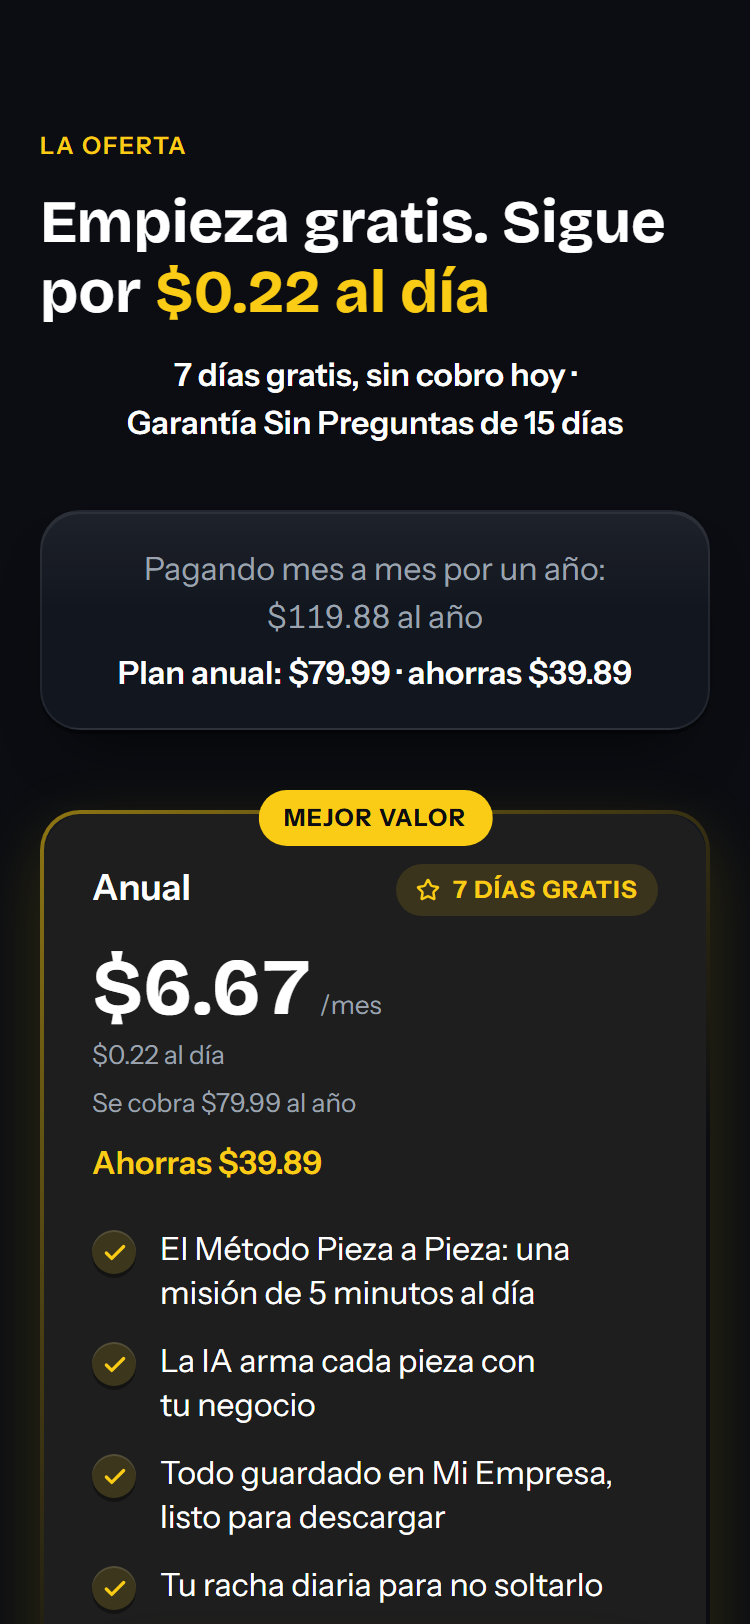
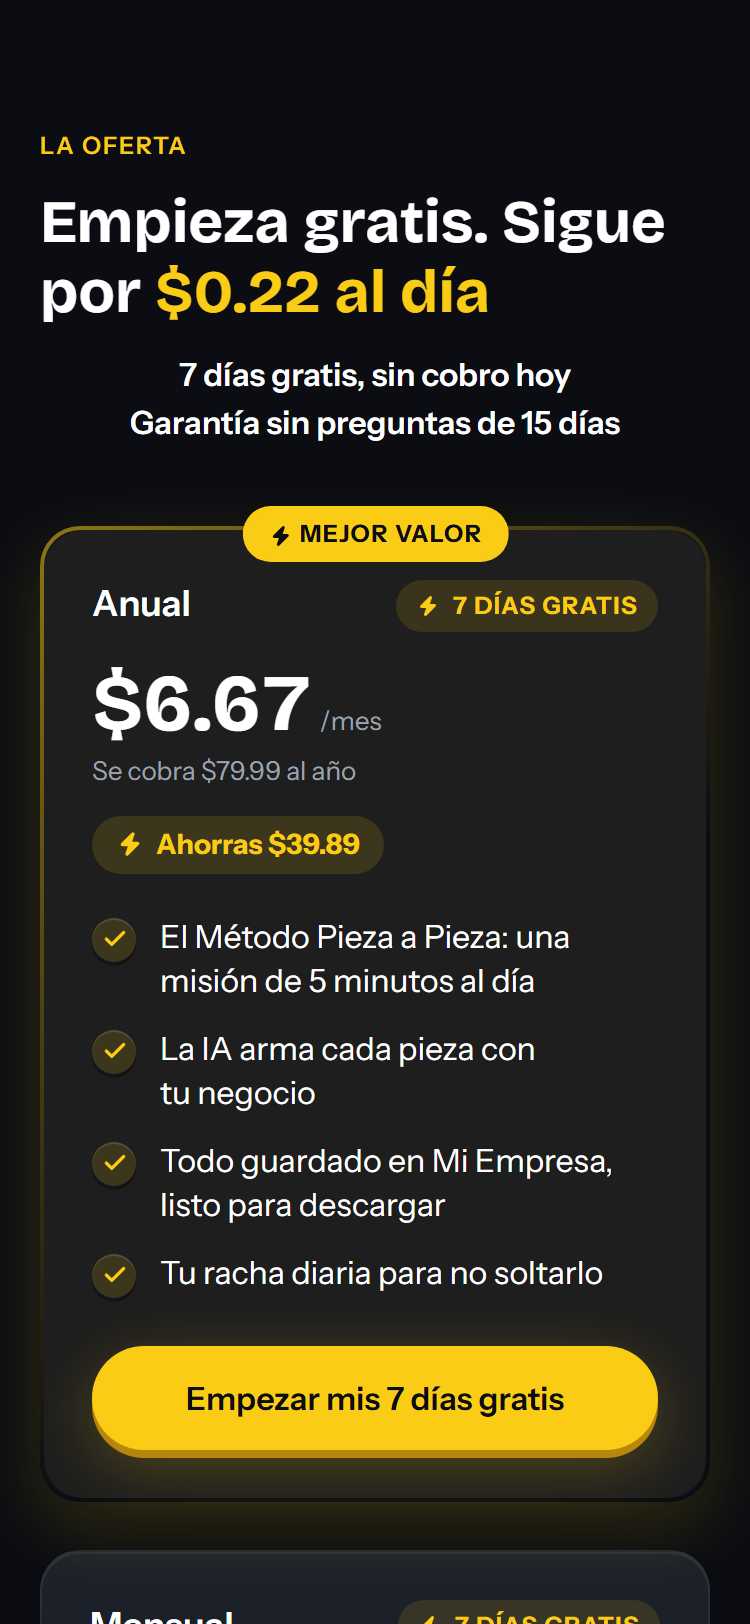
wip: ronda final portada (34/40 · 16/20 · 16/20) y Entrar (30/40 · 15/20)

diff --git a/components/acceso/Acceso.tsx b/components/acceso/Acceso.tsx
@@ -528,7 +528,7 @@ export function Acceso() {
                 <p className="text-xs font-semibold tracking-[0.16em] text-ink-2 uppercase">Tu primer paso</p>
                 <h1 className="mt-3 font-display text-pregunta font-extrabold text-ink-1">Tu idea te espera.</h1>
                 <p className="mt-2 text-base font-semibold text-ink-1">Entra con un enlace a tu correo.</p>
-                <div className="relative mx-auto mt-2 aspect-square w-full max-w-36">
+                <div className="relative mx-auto -mt-2 -mb-6 aspect-square w-full max-w-36">
                   <Image
                     src="/images/jaguar-login.webp"
                     alt=""
@@ -576,7 +576,7 @@ export function Acceso() {
                   </div>
                 </motion.div>
               )}
-              <motion.form {...entrar(2)} onSubmit={enviar} noValidate className="mt-8 flex flex-col gap-2">
+              <motion.form {...entrar(2)} onSubmit={enviar} noValidate className="mt-6 flex flex-col gap-2 rounded-[var(--radius-card)] border border-[var(--portada-borde)] bg-[var(--surface)] p-4 shadow-[var(--shadow-2)]">
                 <label htmlFor={idCampo} className="text-caption font-semibold text-ink-1">
                   Tu correo
                 </label>
@@ -607,7 +607,7 @@ export function Acceso() {
                   aria-invalid={Boolean(errorCampo)}
                   aria-describedby={errorCampo ? `${idCampo}-error` : undefined}
                   key={intentos}
-                  className={`h-14 w-full rounded-[var(--radius-pill)] border bg-[var(--surface)] shadow-[inset_0_1px_0_rgb(255_255_255/0.06)] pr-5 pl-12 text-base text-ink-1 placeholder:text-ink-3 focus:outline-none ${
+                  className={`h-14 w-full rounded-[var(--radius-pill)] border bg-[var(--bg)] pr-5 pl-12 text-base text-ink-1 placeholder:text-ink-3 focus:outline-none ${
                     errorCampo ? 'sacudir border-danger' : 'border-[var(--portada-borde)] focus:border-[var(--portada-verde)]'
                   }`}
                 />
@@ -685,7 +685,7 @@ export function Acceso() {
                     ni se comparte.
                   </span>
                 </p>
-                <p className="mt-2 text-xs text-ink-3">
+                <p className="mt-2 text-caption text-ink-3">
                   Al entrar aceptas los{' '}
                   <Link href="/terminos" className="underline underline-offset-4 hover:text-ink-2">
                     Términos

diff --git a/components/landing/Oferta.tsx b/components/landing/Oferta.tsx
@@ -10,7 +10,7 @@
 
 import { FraseOferta } from './FraseOferta';
 import { motion } from 'motion/react';
-import { ShieldCheck, Star } from 'lucide-react';
+import { ShieldCheck, Zap } from 'lucide-react';
 import { CheckCustom, CtaButton, Hairline, Kicker, SectionShell, useReveal, VIEWPORT_ONCE, EnlaceCta } from './ui';
 import { MarkedCopy, warnCopy, warnRango } from './MarkedCopy';
 
@@ -57,7 +57,7 @@ export interface OfertaProps {
 function TrialBadge({ dias }: { dias: number }) {
   return (
     <span className="inline-flex w-fit items-center gap-1.5 rounded-full bg-[color-mix(in_oklab,var(--accent)_13%,transparent)] px-2.5 py-1 text-[12px] font-bold uppercase tracking-[0.06em] text-[var(--accent)]">
-      <Star size={12} strokeWidth={2.5} aria-hidden="true" />
+      <Zap size={12} fill="currentColor" strokeWidth={0} aria-hidden="true" />
       {dias} días gratis
     </span>
   );
@@ -164,6 +164,7 @@ export function Oferta({
           <motion.div variants={item} className="relative md:-translate-y-2">
             {anual.badge && (
               <span className="absolute -top-[10px] left-1/2 z-10 -translate-x-1/2 rounded-full border border-[color-mix(in_oklab,var(--accent)_25%,transparent)] bg-[var(--accent)] px-3 py-1 text-[12px] font-bold uppercase tracking-[0.06em] text-[var(--bg)]">
+                <Zap size={12} fill="currentColor" strokeWidth={0} aria-hidden="true" className="mr-1 inline" />
                 {anual.badge}
               </span>
             )}
@@ -177,7 +178,10 @@ export function Oferta({
                   <Precio plan={anual} />
                   {/* El total anual SIEMPRE visible — regla de oro de 02C */}
                   <p className="mt-1 text-[13px] text-[var(--text-secondary)]">{anual.totalAnual}</p>
-                  <p className="mt-2 text-[16px] font-semibold text-[var(--accent)]">{anual.ahorro}</p>
+                  <p className="mt-3 inline-flex items-center gap-1.5 rounded-full bg-[color-mix(in_oklab,var(--accent)_14%,transparent)] px-3 py-1 text-[14px] font-bold text-[var(--accent)]">
+                    <Zap size={14} fill="currentColor" strokeWidth={0} aria-hidden="true" />
+                    {anual.ahorro}
+                  </p>
                 </div>
                 <Features items={anual.features} origen="Oferta → anual" />
                 <div className="mt-6">

diff --git a/app/page.tsx b/app/page.tsx
@@ -131,18 +131,12 @@ export default function PaginaDeVentas() {
       <Oferta
         tituloMarked="Empieza gratis. Sigue por [acento]$0.22 al día[/acento]"
         trialDias={7}
-        stack={{
-          lineas: [{ resultado: 'Pagando mes a mes por un año', valor: '$119.88' }],
-          totalTachado: '$119.88',
-          nota: `Plan anual: $79.99 · ahorras ${AHORRO_ANUAL}`,
-        }}
         anual={{
           nombre: 'Anual',
           badge: 'MEJOR VALOR',
           precioMes: '$6.67',
           totalAnual: 'Se cobra $79.99 al año',
           ahorro: `Ahorras ${AHORRO_ANUAL}`,
-          descomposicionDia: '$0.22 al día',
           ctaLabel: 'Empezar mis 7 días gratis',
           ctaHref: CTA_ANUAL,
           features: FEATURES_ANUAL,
@@ -150,12 +144,11 @@ export default function PaginaDeVentas() {
         mensual={{
           nombre: 'Mensual',
           precioMes: '$9.99',
-          descomposicionDia: '$0.33 al día',
           ctaLabel: 'Empezar mis 7 días gratis',
           ctaHref: CTA_MENSUAL,
           features: FEATURES_MENSUAL,
         }}
-        microcopyCompra="Pagas seguro por Hotmart · 15 días de garantía desde tu primer pago · te avisamos antes de cobrar"
+        microcopyCompra="Pagas seguro por Hotmart · Garantía sin preguntas de 15 días desde tu primer pago · te avisamos antes de cobrar"
       />
 
       <Garantia

diff --git a/components/landing/FraseOferta.tsx b/components/landing/FraseOferta.tsx
@@ -1,10 +1,13 @@
+import { Zap } from 'lucide-react';
 import { OFERTA_TRIAL, OFERTA_GARANTIA } from './ofertaFrase';
 
-/** La frase de oferta única; el corte de línea cae siempre entre las dos ideas, nunca dentro de ellas. */
-export function FraseOferta({ className = '' }: { className?: string }) {
+/** La frase de oferta única. En móvil: dos líneas limpias, sin separador suelto. Con más ancho: una línea con el rayo de marca. */
+export function FraseOferta({ className = '', alinear = 'centro' }: { className?: string; alinear?: 'centro' | 'izquierda' }) {
   return (
-    <span className={`inline-block text-balance ${className}`}>
-      <span className="whitespace-nowrap">{OFERTA_TRIAL}</span> · <span className="whitespace-nowrap">{OFERTA_GARANTIA}</span>
+    <span className={`inline-flex flex-col sm:flex-row sm:items-center sm:gap-2 ${alinear === 'centro' ? 'items-center' : 'items-start'} ${className}`}>
+      <span className="whitespace-nowrap">{OFERTA_TRIAL}</span>
+      <Zap aria-hidden="true" size={14} fill="currentColor" strokeWidth={0} className="hidden shrink-0 text-[var(--portada-amarillo)] sm:block" />
+      <span className="whitespace-nowrap">{OFERTA_GARANTIA}</span>
     </span>
   );
 }

diff --git a/components/landing/QueRecibes.tsx b/components/landing/QueRecibes.tsx
@@ -1,12 +1,12 @@
 // Justo debajo de la portada: qué es EMPREZAI y qué recibe la persona, en 4 datos claros.
-import { FRASE_OFERTA } from './ofertaFrase';
+import { FraseOferta } from './FraseOferta';
 import { CalendarRange, Clock, Gift, Sparkles } from 'lucide-react';
 
 const DATOS = [
   { icono: CalendarRange, titulo: 'Una ruta de 30 días', detalle: 'Te guía paso a paso, desde tu idea hasta tu negocio armado.' },
   { icono: Clock, titulo: '5 minutos al día', detalle: 'Una misión corta desde el celular. Sin cursos largos.' },
   { icono: Sparkles, titulo: 'La IA arma tus piezas', detalle: 'Tu oferta, tu nombre y tus textos se crean dentro de la app: no copias nada.' },
-  { icono: Gift, titulo: 'Pruébala sin riesgo', detalle: FRASE_OFERTA + '.' },
+  { icono: Gift, titulo: 'Pruébala sin riesgo', detalle: <FraseOferta alinear="izquierda" /> },
 ];
 
 export function QueRecibes() {

diff --git a/components/landing/ofertaFrase.ts b/components/landing/ofertaFrase.ts
@@ -1,4 +1,4 @@
 // Una sola frase de oferta, idéntica en la portada, en «Qué recibes», en los planes y en Entrar.
 export const OFERTA_TRIAL = '7 días gratis, sin cobro hoy';
-export const OFERTA_GARANTIA = 'Garantía Sin Preguntas de 15 días';
+export const OFERTA_GARANTIA = 'Garantía sin preguntas de 15 días';
 export const FRASE_OFERTA = `${OFERTA_TRIAL} · ${OFERTA_GARANTIA}`;

diff --git a/docs/revisiones/entrar-veredicto.md b/docs/revisiones/entrar-veredicto.md
@@ -1,19 +1,19 @@
 # VEREDICTO revisor-visual — entrar
-Fecha: 2026-11-24 16:00
+Fecha: 2026-11-24 18:00
 Screenshot: docs/revisiones/entrar-375.png
 Usabilidad: 30/40
-Craft: 14/20
+Craft: 15/20
 Copy (si vende): N-A
 Fidelidad (si hubo referencia): N-A
 Veredicto: NO LISTA
 Top defectos:
-1. Pie «7 días gratis, sin cobro hoy · Garantía Sin Preguntas de 15 días» se parte dejando el punto medio «·» huérfano al final de la primera línea, y la mayúscula «Sin Preguntas» es inconsistente con el resto del copy. Fix: dos líneas explícitas sin separador («7 días gratis, sin cobro hoy» / «Garantía sin preguntas de 15 días») o un solo mensaje corto.
-2. Hueco muerto entre la mascota y el label «Tu correo» (~70 px a 375 de ancho): la mascota se redujo pero el contenedor conserva su alto. Fix: ajustar el aspect-ratio/altura del contenedor para que el hueco sea ≤32 px.
-3. Fondo casi plano: el campo (#12161F con luz interior) se despega algo, pero la zona del formulario no tiene superficie elevada visible y el resto del fondo sigue en un solo plano. Fix: tarjeta o banda #12161F con hairline #1F2937 bajo el formulario, o un radial sutil detrás de la mascota.
-4. Alineación mixta: títulos y pie centrados; label, ayuda, escudo y Términos a la izquierda; Términos en ~12px ink-3 (text-xs, l.688). Fix: un solo eje o subir los Términos a text-caption.
-5. Dos promesas de gratuidad cerca («7 días gratis, sin cobro hoy» y «Prueba gratis») y ninguna aclara cómo se combina con «el correo con el que pagaste». Verifica los plazos contra FICHA-MERCADO/Hotmart (no pude confirmarlos). Fix: quedarse con una sola frase de oferta y confirmar su exactitud.
+1. Promesas sin verificar: «7 días gratis, sin cobro hoy · Garantía sin preguntas de 15 días» y «¿Aún no tienes cuenta? Prueba gratis» conviven con «Usa el correo con el que pagaste en Hotmart». No pude confirmar los plazos contra FICHA-MERCADO/Hotmart, y «sin cobro hoy» junto a «el correo con el que pagaste» puede confundir a quien aún no paga. Fix: confirmar los plazos con la dueña y dejar una sola frase de oferta; si es la misma, nombrar igual la prueba en pie y enlace.
+2. Términos se parte con «Privacidad.» huérfana en la segunda línea dentro de la tarjeta. Fix: text-balance o acortar a «Al entrar aceptas los Términos y la Privacidad.»
+3. Ritmo interno de la tarjeta: ~40 px entre la ayuda y el botón frente a ~16–24 px entre el resto de bloques; el botón queda desligado de su campo. Fix: unificar a 24 px.
+4. Mascota (aprox. 176 px, estática salvo flotado) sin relación visual con la tarjeta: queda a ~25 px del subtítulo y ~45 px de la tarjeta. Fix: igualar el aire sobre y bajo (32 px) o solaparla ligeramente con el borde de la tarjeta para unir ambas.
+5. Fondo fuera de la tarjeta sigue plano (solo un tinte arriba); la tarjeta eleva bien pero la mitad inferior no tiene luz ni textura propia. Fix: radial sutil verde/dorado detrás del pie para cerrar la composición (opcional).
 
-Corregido y verificado en esta ronda: subtítulo en una línea (l.530); ayuda exacta «Usa el correo con el que pagaste en Hotmart.» pegada al campo (l.615); mascota 176px con flotado que respeta reduced-motion; campo con luz interior (inset 1px) sobre --surface; toda la pantalla cabe en una vista sin scroll; CTA vivo (contraste alto, 56px, tap con translateY, valida al enviar); la rama «enviado/código» hereda .paleta-portada (no está en la captura, no puntuada visualmente). Verificado en código: autoFocus, correo recordado, sugerencia de dominio mal escrito, errores con solución, volver (logo, «Usar otro correo»), aria-live.
+Corregido y verificado en esta ronda: tarjeta elevada #12161F con borde #1F2937 y sombra (3 niveles: fondo, tarjeta, campo), un solo eje (izquierda) dentro de la tarjeta, pie y enlace centrados fuera, «Garantía sin preguntas» en minúsculas, aire alrededor de la mascota repartido, cabe sin scroll. CTA vivo (contraste alto, 56 px, tap con translateY, valida al enviar, no disabled por defecto). En código: autoFocus, correo recordado, sugerencia de dominio, errores con solución, volver (logo, «Usar otro correo»), aria-live, reduced-motion. La rama «enviado/código» hereda .paleta-portada y no está en la captura (no puntuada visualmente).
 
 Detalle usabilidad: h1:3 h2:3 h3:3 h4:3 h5:3 h6:3 h7:3 h8:3 h9:3 h10:3
-Detalle craft: jerarquía:3 profundidad:2 identidad:3 movimiento:3 encaje:3
+Detalle craft: jerarquía:3 profundidad:3 identidad:3 movimiento:3 encaje:3

diff --git a/docs/revisiones/landing-veredicto.md b/docs/revisiones/landing-veredicto.md
@@ -1,9 +1,9 @@
 # VEREDICTO revisor-visual — landing (portada completa: hero + qué recibes + demo + problema + planes)
-Fecha: 2026-11-24 16:00
+Fecha: 2026-11-24 18:00
 Screenshot: docs/revisiones/landing-375.png
-Usabilidad: 32/40
-Craft: 15/20
+Usabilidad: 34/40
+Craft: 16/20
 Copy (si vende): 16/20
 Fidelidad (si hubo referencia): FIEL
 Veredicto: NO LISTA
-Top defectos: 1) El separador "·" queda colgando al final de la línea ("sin cobro hoy ·") en el hero y en el encabezado de planes, así que la frase parte la idea pero deja un punto huérfano. 2) El ahorro de $39.89 aparece tres veces en la misma pantalla de planes (caja de comparación, "Ahorras" y plan anual), lo que repite y diluye. 3) La tarjeta de comparación y la tarjeta anual duplican precio ($79.99 y $6.67/mes y $0.22/día), con demasiados números compitiendo por ser el dato héroe. 4) Craft sin un detalle firma extra más allá del personaje: el resto (chips de ícono, tarjetas) es intercambiable con otra app oscura con acento amarillo. 5) El "Probar gratis" de la cabecera sigue duplicando el CTA principal (decisión de la dueña, solo anotado).
+Top defectos: 1) El titular de planes promete "$0.22 al día" pero ninguna tarjeta muestra la cifra diaria, así que el dato héroe del encabezado no se puede rastrear en lo que sigue. 2) El pie de planes en 3 líneas deja "de cobrar" huérfano y mezcla tres ideas con "·" en un texto gris de 13px. 3) La garantía se repite en hero, encabezado, pie y sección propia con el mismo texto, lo que carga sin sumar. 4) El botón secundario de la tarjeta mensual (contorno amarillo) y el principal de la anual dicen exactamente lo mismo, "Empezar mis 7 días gratis", sin distinguir la elección. 5) La píldora "Probar gratis" de la cabecera duplica el CTA principal (decisión de la dueña, solo anotado). Usabilidad no llega a 36: ninguna heurística está en 4 salvo h2, h6 y h10, y ninguna es ejemplar en control/flexibilidad.
